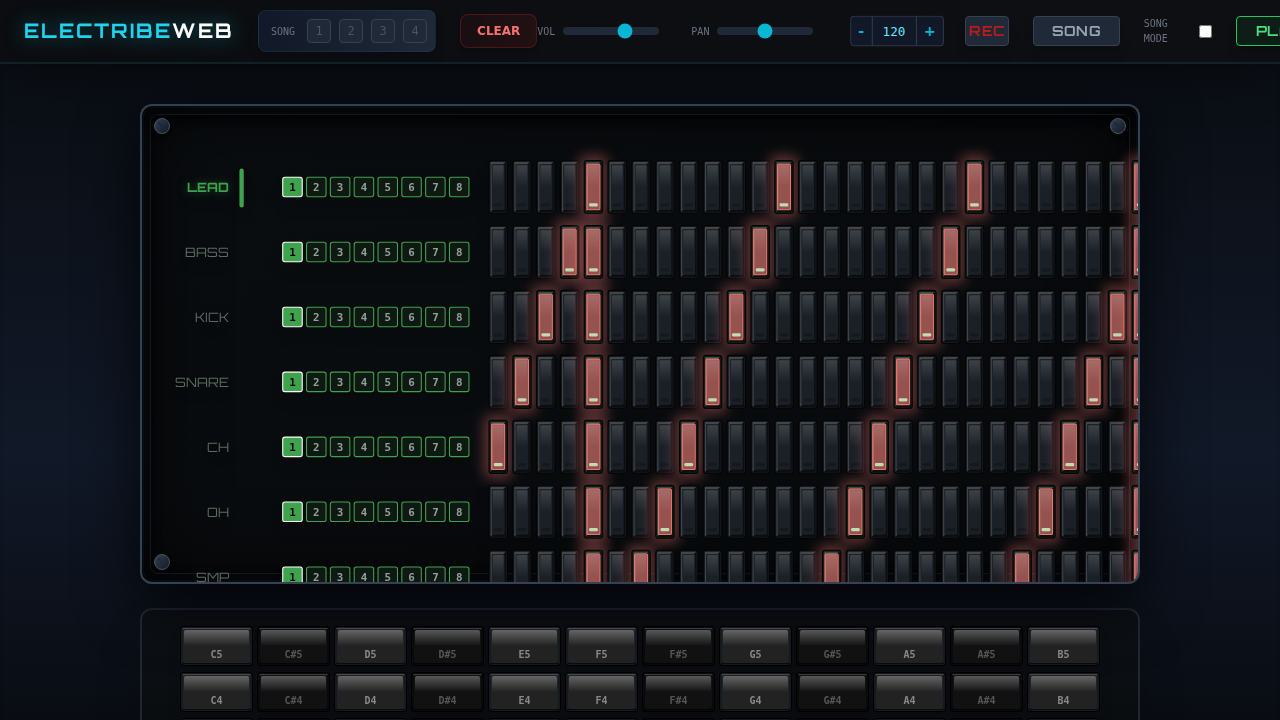
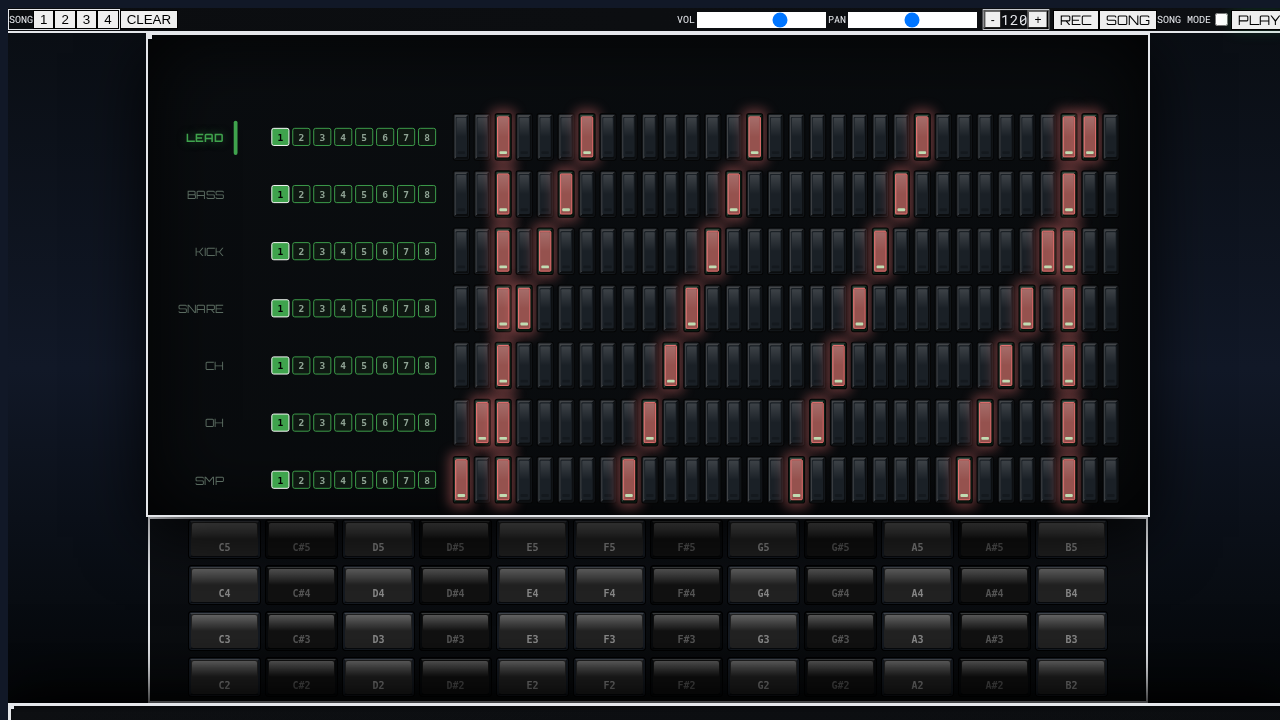
push fix

diff --git a/src/__tests__/WaveformSelector.test.tsx b/src/__tests__/WaveformSelector.test.tsx
@@ -1,0 +1,22 @@
+import React from 'react';
+import { describe, it, expect } from 'vitest';
+import { render, screen } from '@testing-library/react';
+import { WaveformSelector } from '../components/WaveformSelector';
+import type { Waveform } from '../types';
+
+describe('WaveformSelector', () => {
+  it('renders the wav-saw and wav-sqr buttons', () => {
+    const onChange = (w: Waveform) => {};
+    render(<WaveformSelector selected={'sawtooth'} onChange={onChange} accentColor="cyan" />);
+
+    const wavSawBtn = screen.getByRole('button', { name: /Select wav-saw waveform/i });
+    const wavSqrBtn = screen.getByRole('button', { name: /Select wav-sqr waveform/i });
+
+    expect(wavSawBtn).toBeInTheDocument();
+    expect(wavSqrBtn).toBeInTheDocument();
+    // Visible assertion uses style or computed; in test environment, we ensure it exists
+    expect(wavSawBtn).toBeVisible();
+    expect(wavSqrBtn).toBeVisible();
+  });
+});
+

diff --git a/src/components/HardwareModule.tsx b/src/components/HardwareModule.tsx
@@ -352,10 +352,13 @@ export const HardwareModule = React.memo(
         };
     }, [colorHex]); // Re-init if color changes (rare)
 
+    // Allow overlayed children (e.g., WaveformSelector) to be visible
+    // when they extend outside the main canvas/module rectangle.
+    // This avoids them being clipped by the module's border.
     return (
         <div 
             ref={containerRef} 
-            className="relative rounded-lg shadow-xl overflow-hidden bg-gray-900 border border-gray-700"
+            className="relative rounded-lg shadow-xl overflow-visible bg-gray-900 border border-gray-700"
             style={{ width: '100%', height: '100%', minHeight: '220px' }}
         >
             {/* The WebGPU Surface */}

diff --git a/src/__tests__/App.test.tsx b/src/__tests__/App.test.tsx
@@ -26,4 +26,12 @@ describe('App', () => {
     // Check for the Song button
     expect(screen.getByRole('button', { name: 'SONG' })).toBeInTheDocument();
   });
+
+  it('renders the waveform selector buttons for the active synth', () => {
+    render(<App />);
+    // The active selected track defaults to partA, which should show the WaveformSelector
+    const wavSawBtn = screen.getByRole('button', { name: /Select wav-saw waveform/i });
+    expect(wavSawBtn).toBeInTheDocument();
+    expect(wavSawBtn).toBeVisible();
+  });
 });
